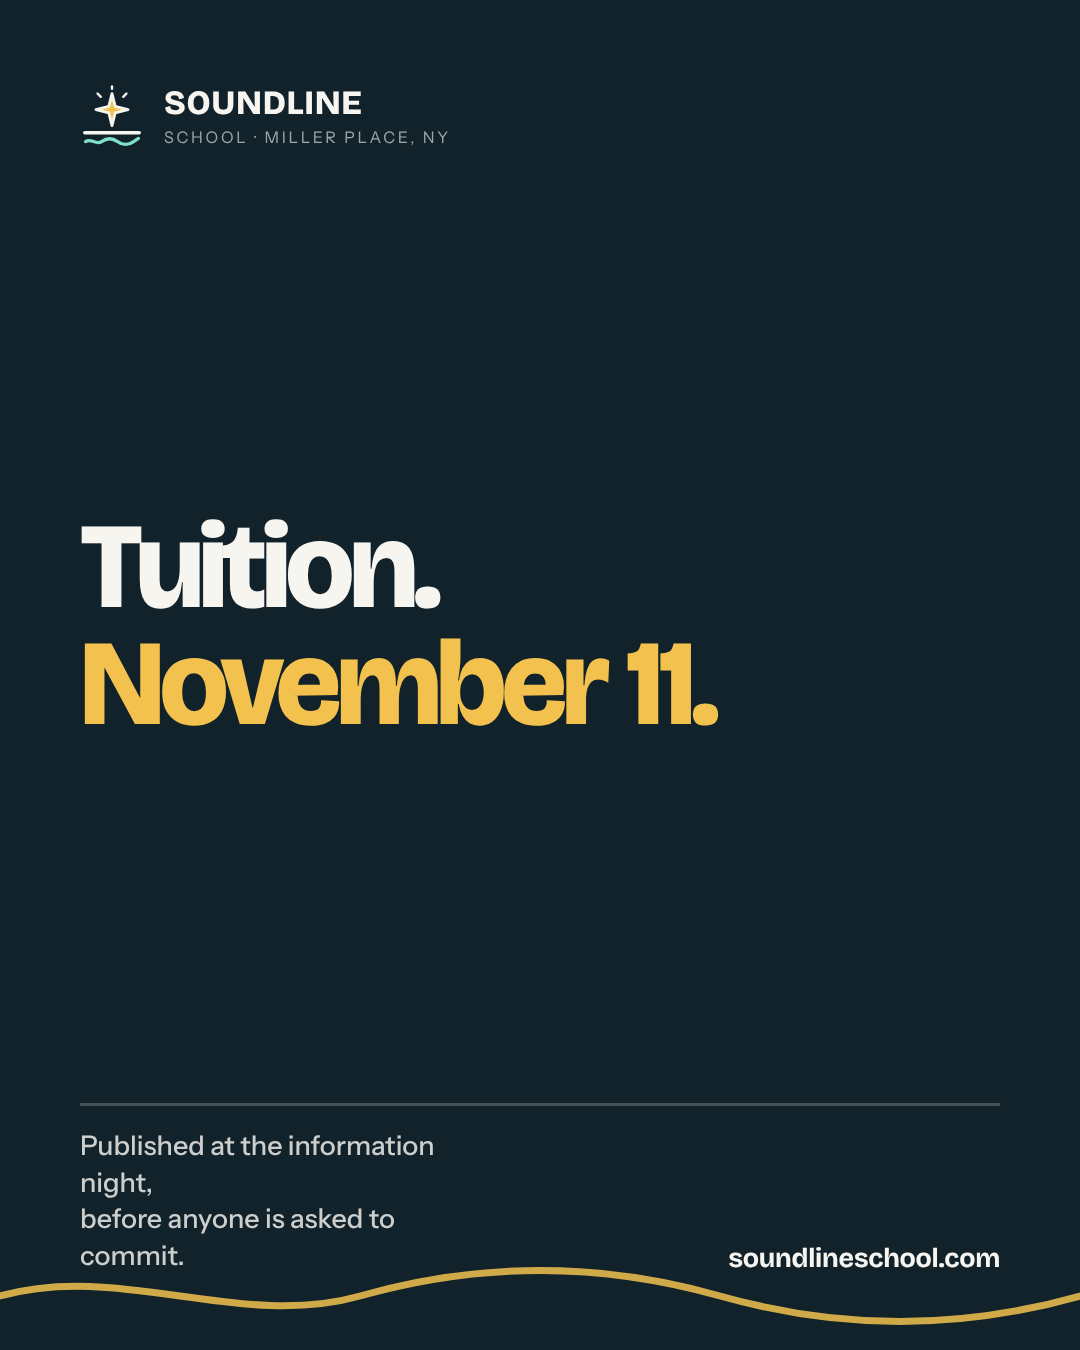
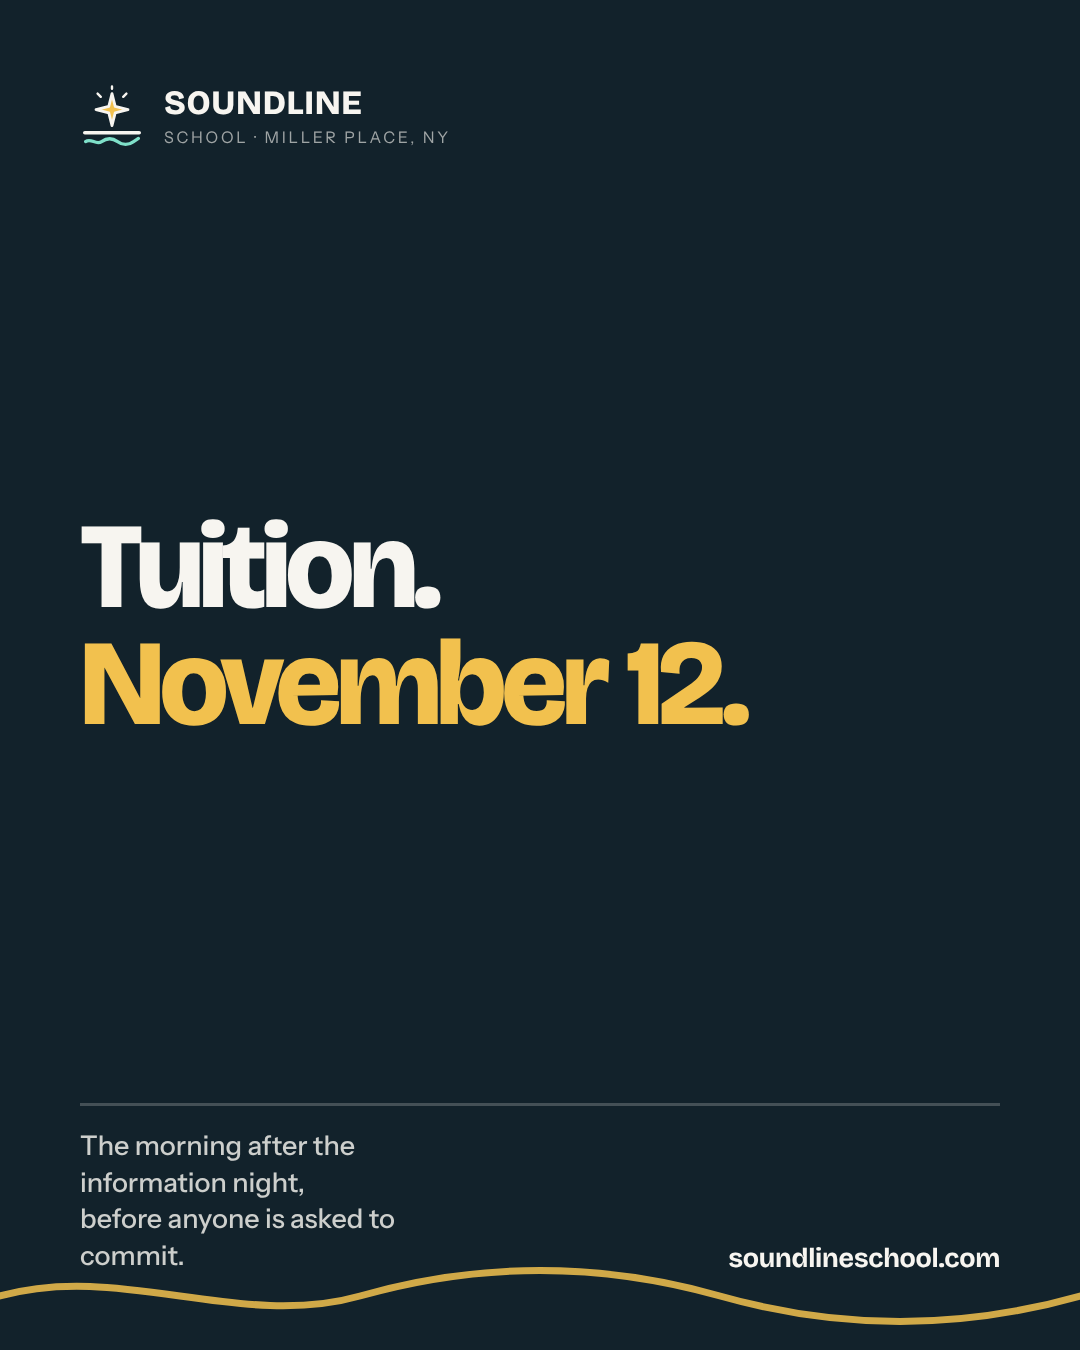
The number lands on the 12th, and the card says so
The November 1 card read "Tuition. November 11." Tuition is published
the morning of the 12th, which is what cost.html, the Join FAQ and
the packet all say, so the card and the twelve posts that carried the
other version are now on the 12th too.

The survey page still said the night is where we publish tuition. It
now says the letter reaches you the next morning whether or not you
were in the room, which is the promise cost.html makes.

Claude-Session: https://claude.ai/code/session_018XwtJ3ar8u6f3XjiJA2UqT

Changed region(s): [[0.0611, 0.84, 0.3972, 0.9022], [0.6111, 0.4667, 0.7028, 0.56]]

diff --git a/survey/index.html b/survey/index.html
@@ -69,7 +69,7 @@
   <section class="page-hero wrap" id="top" data-fathom="Take the survey">
     <span class="label" style="color:var(--glow)">Take the survey</span>
     <h1>A few minutes, and you hear from us first.</h1>
-    <p class="lede survey-lede">Your answers shape the school. They also put you at the front of the line: the information night is <strong>Wednesday, November 11 at 7:00 pm</strong> at the Port Jefferson Free Library, where we publish tuition, and founding enrollment opens the next morning. Everyone who has filled this in hears from us first.</p>
+    <p class="lede survey-lede">Your answers shape the school. They also put you at the front of the line: the information night is <strong>Wednesday, November 11 at 7:00 pm</strong> at the Port Jefferson Free Library. Tuition is published the next morning, and founding enrollment opens with it — and the letter reaches you then whether or not you were in the room.</p>
   </section>
 </div>
 
